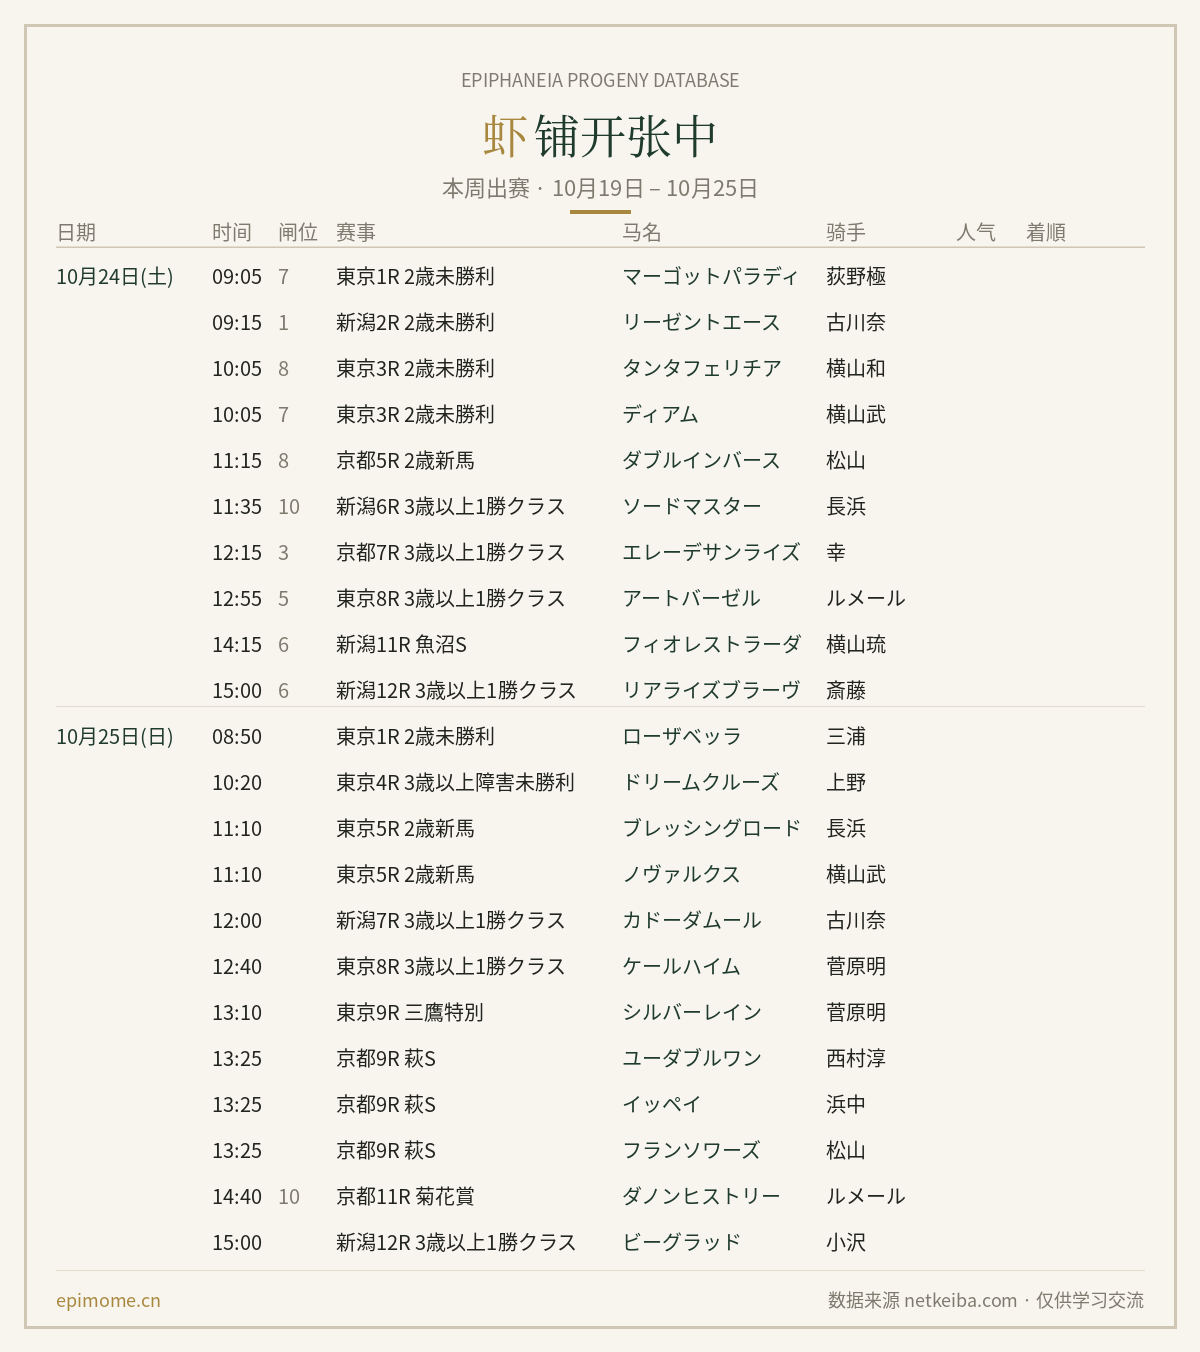
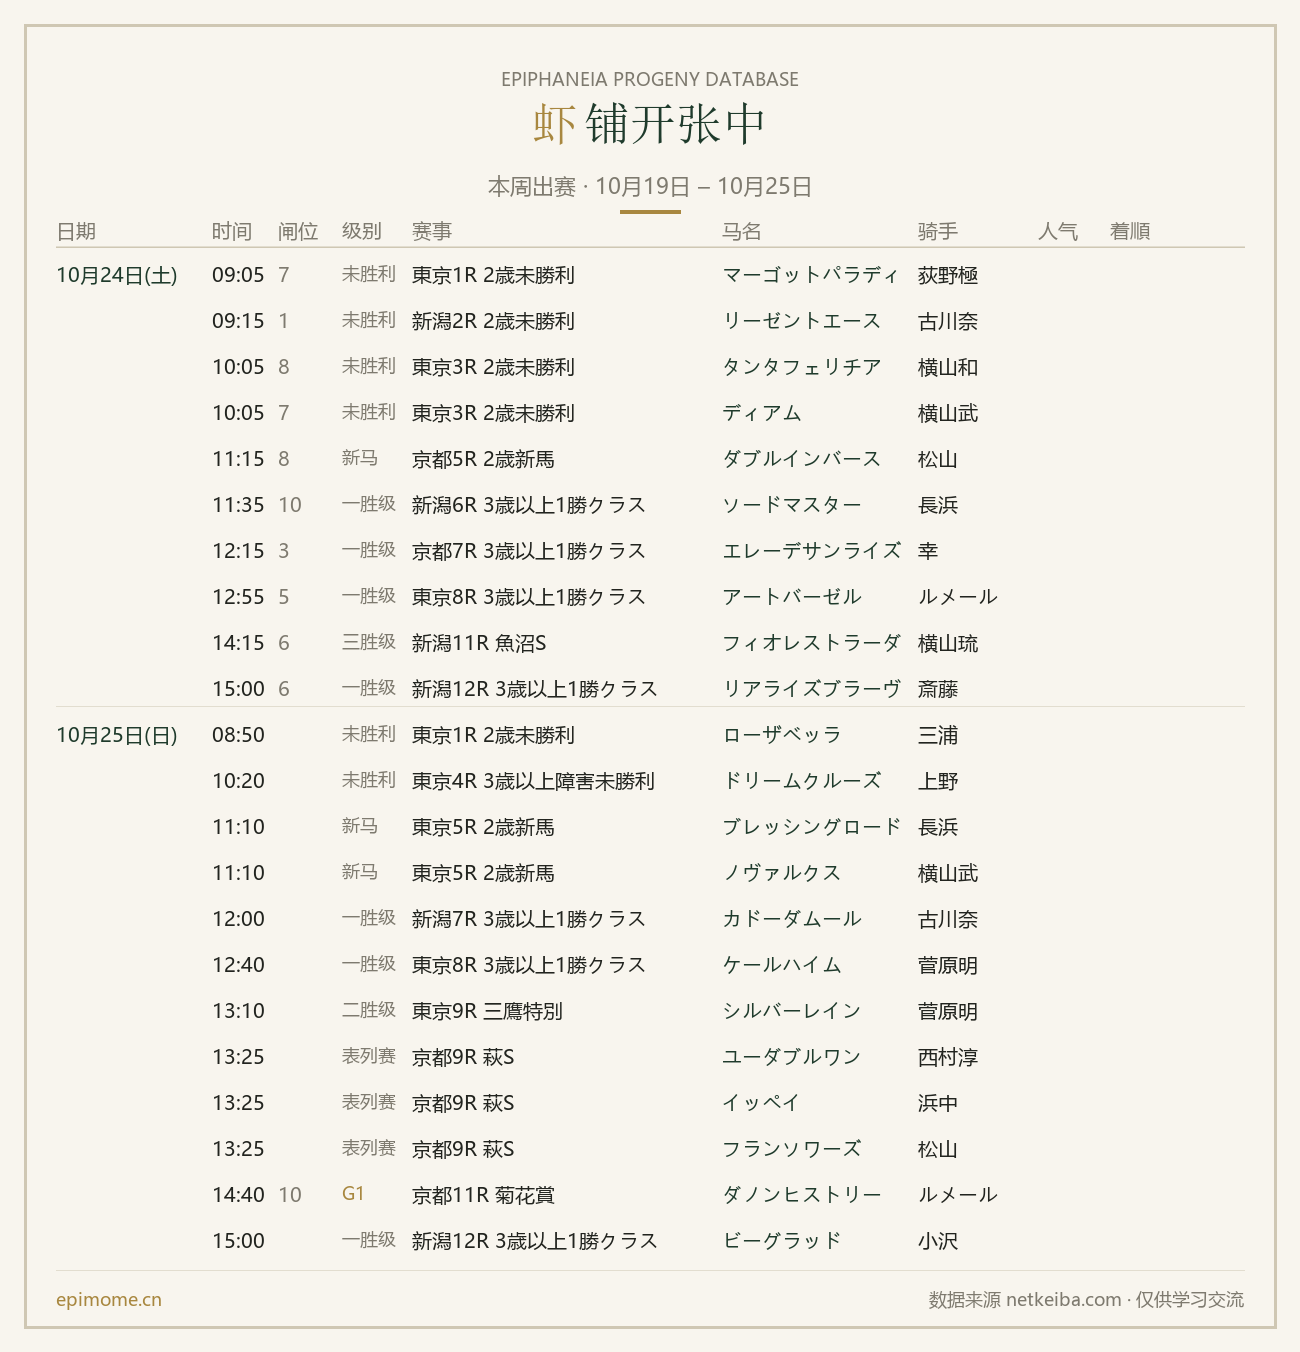
出赛表图片增加赛事级别列
- 新增「级别」列（G1/G2/G3、表列赛、新马、一胜级等）
- G1/G2/G3 用金色强调
- 图片宽度 1200→1300，避免列拥挤

diff --git a/scrape_and_build.py b/scrape_and_build.py
@@ -814,7 +814,7 @@ def make_week_image(runners):
                    if in_week(r) and (r.get('region') or '中央') == '中央'],
                   key=lambda r: (md(r.get('date')) or (99, 99), r.get('time') or '99:99'))
 
-    W = 1200
+    W = 1300
     pad = 56
     row_h = 46
     header_h = 250
@@ -852,8 +852,8 @@ def make_week_image(runners):
     d.text(((W - tw(sub, f_sub)) / 2, 170), sub, font=f_sub, fill=MUTED)
     d.rectangle([W // 2 - 30, 210, W // 2 + 30, 213], fill=GOLD)
 
-    cols = [('日期', pad), ('时间', 212), ('闸位', 278), ('赛事', 336),
-            ('马名', 622), ('骑手', 826), ('人气', 956), ('着順', 1026)]
+    cols = [('日期', pad), ('时间', 212), ('闸位', 278), ('级别', 342),
+            ('赛事', 412), ('马名', 722), ('骑手', 918), ('人气', 1038), ('着順', 1110)]
     y = header_h - 34
     d.line([pad, y + 30, W - pad, y + 30], fill=(207, 199, 179), width=2)
     for label, x in cols:
@@ -877,16 +877,19 @@ def make_week_image(runners):
             last_date = date
         d.text((212, y + 10), clip(r.get('time'), 56, f_cell), font=f_cell, fill=INK)
         d.text((278, y + 10), clip(r.get('num'), 46, f_cell), font=f_cell, fill=MUTED)
-        d.text((336, y + 10), clip(r.get('race'), 278, f_cell), font=f_cell, fill=INK)
-        d.text((622, y + 10), clip(r.get('name'), 196, f_cell), font=f_cell, fill=GREEN)
-        d.text((826, y + 10), clip(r.get('jockey'), 122, f_cell), font=f_cell, fill=INK)
-        d.text((956, y + 10), clip(r.get('fav'), 58, f_cell), font=f_cell, fill=MUTED)
+        cls = r.get('cls') or ''
+        d.text((342, y + 10), clip(cls, 62, f_small), font=f_small,
+               fill=GOLD if cls.startswith('G') else MUTED)
+        d.text((412, y + 10), clip(r.get('race'), 300, f_cell), font=f_cell, fill=INK)
+        d.text((722, y + 10), clip(r.get('name'), 188, f_cell), font=f_cell, fill=GREEN)
+        d.text((918, y + 10), clip(r.get('jockey'), 112, f_cell), font=f_cell, fill=INK)
+        d.text((1038, y + 10), clip(r.get('fav'), 66, f_cell), font=f_cell, fill=MUTED)
         order = str(r.get('order') or '').strip()
         if order:
             bg = RANK_BG.get(int(order)) if order.isdigit() and 1 <= int(order) <= 3 else GRAY_BG
             fg = INK if order in ('1', '2', '3') else (255, 255, 255)
             bw = max(34, tw(order, f_small) + 18)
-            bx = 1026
+            bx = 1110
             d.rounded_rectangle([bx, y + 8, bx + bw, y + 36], radius=3, fill=bg)
             d.text((bx + (bw - tw(order, f_small)) / 2, y + 10), order, font=f_small, fill=fg)
         y += row_h
